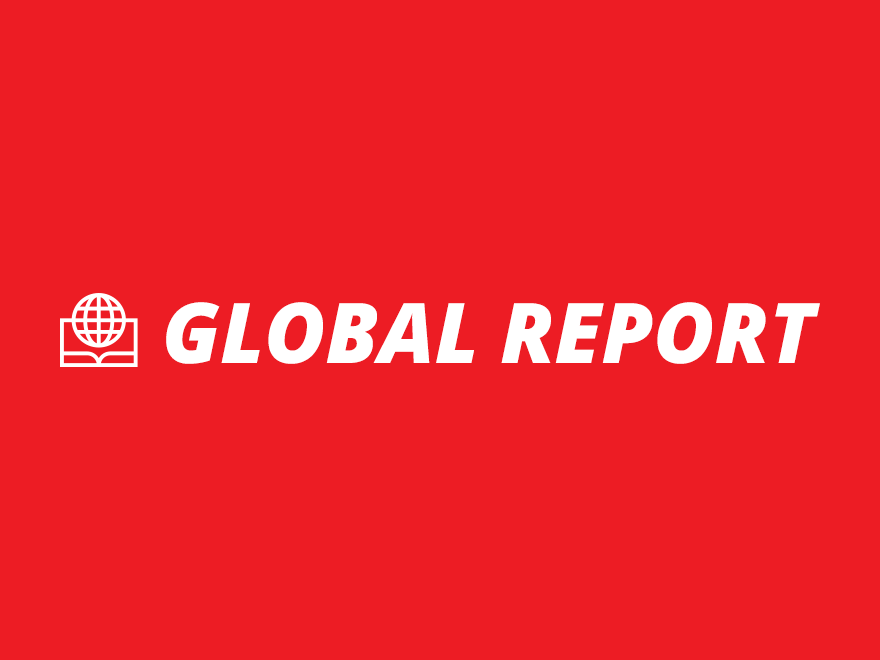
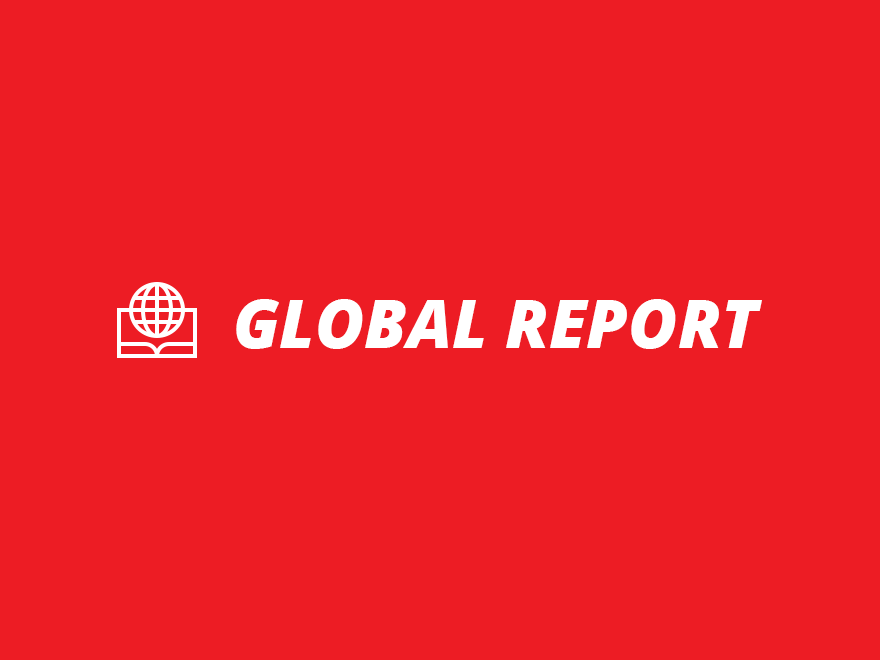
hold your breath. to do list completed.

Changed region(s): [[0.0614, 0.4242, 0.9511, 0.5758]]

diff --git a/style.css b/style.css
@@ -4,4 +4,4 @@ Author: Mitchell Hillman
 Author URI: http://www.mitchellhillman.com/
 Description: A news oriented theme with infinite scroll, excellent readability, and simple navigation.
 Version: 1.0
-*/@import url(icomoon/style.css);@import url(http://fonts.googleapis.com/css?family=Open+Sans:400italic,700italic,800italic,400,700);html,body,div,span,applet,object,iframe,h1,h2,h3,h4,h5,h6,p,blockquote,pre,a,abbr,acronym,address,big,cite,code,del,dfn,em,img,ins,kbd,q,s,samp,small,strike,strong,sub,sup,tt,var,b,u,i,center,dl,dt,dd,ol,ul,li,fieldset,form,label,legend,table,caption,tbody,tfoot,thead,tr,th,td,article,aside,canvas,details,embed,figure,figcaption,footer,header,hgroup,menu,nav,output,ruby,section,summary,time,mark,audio,video{margin:0;padding:0;border:0;font:inherit;font-size:100%;vertical-align:baseline}html{line-height:1}ol,ul{list-style:none}table{border-collapse:collapse;border-spacing:0}caption,th,td{text-align:left;font-weight:normal;vertical-align:middle}q,blockquote{quotes:none}q:before,q:after,blockquote:before,blockquote:after{content:"";content:none}a img{border:none}article,aside,details,figcaption,figure,footer,header,hgroup,menu,nav,section,summary{display:block}.clearfix{*zoom:1}.clearfix:after{content:" ";display:table}.clearfix:after{clear:both}body{font-family:sans-serif;font-size:16px;font-family:"Open Sans",sans-serif;background:white;color:black;line-height:1.5em}img{width:auto;height:auto;max-width:100%;display:block}a{color:#3873ed;text-decoration:none}a:hover{color:black;text-decoration:underline}strong{font-weight:700}em{font-style:italic}h1{font-size:2em;font-weight:700;font-family:"Open Sans",sans-serif;margin:1em 0;line-height:1.2em;padding-bottom:0.25em;border-bottom:1px solid black}h1 a{text-decoration:none;color:black}h1 a:hover{text-decoration:none}h2,h3{text-transform:uppercase;letter-spacing:0.2em;font-family:"Open Sans",sans-serif;font-weight:700;line-height:1.2em;margin:2em 0 0.5em 0}h2 a,h3 a{text-decoration:none}h4,h5,h6{font-weight:bold;font-family:"Open Sans",sans-serif;margin:2em 0 0.5em 0}p{margin:0.75em 0}blockquote{margin:0.75em 0;padding-left:20px;border-left:10px solid #e6e6e6}cite{font-family:"Open Sans",sans-serif;font-size:0.875em;font-style:italic;margin-left:30px}input,textarea{-webkit-appearance:none;-webkit-border-radius:0;-moz-border-radius:0;-ms-border-radius:0;-o-border-radius:0;border-radius:0;border:0;background:white;display:block;font-family:"Open Sans",sans-serif;font-size:16px;outline:none;padding:10px}input[type="text"],textarea[type="text"]{width:100%;color:#4d4d4d}textarea{width:100%;font-size:0.875em}label{font-weight:bold;font-size:0.875em}input[type="submit"]{font-weight:800;font-style:italic;padding:10px 20px;background:#ccc;cursor:pointer;display:inline-block}input[type="submit"]:hover{background:#b3b3b3}abbr,code{font-family:"Lucida Console", "Lucida Sans Typewriter", Monaco, "Bitstream Vera Sans Mono", monospace}code{line-height:1.1em;padding:0.2em;background:white}.screen-reader-text{display:none}.content{color:black;background:white;font-family:"Georgia",serif;padding-top:50px;*zoom:1}.content:after{content:" ";display:table}.content:after{clear:both}.scroller{padding:0}.sidebar{background-color:#e6e6e6}.sidebar{display:none}.main{display:block;background:#f2f2f2}.home .sidebar{display:block}.home .main{display:none}.sidebar-entry{border-top:1px solid white;font-size:0.875em}.sidebar-entry:first-child{border:0}.sidebar-entry a{text-decoration:none}.sidebar-entry p{color:black;margin:0;line-height:1.4em;margin-top:10px}.sidebar-entry h3{margin:0;margin-top:5px}.sidebar-entry:hover,.sidebar-entry.active{background:#ccc}.sidebar-entry img{width:100%;max-width:100%}.sidebar-entry .entry-content{padding:10px}.main-entry,.page-content{max-width:1080px;background:white;margin:0 auto;border-top:1px solid #f2f2f2;padding:40px 0}.main-entry:first-child,.page-content:first-child{border:0}.main-entry .entry-content ul,.main-entry .entry-content ol,.page-content .entry-content ul,.page-content .entry-content ol{margin:0.75em 0 0.75em 40px}.main-entry .entry-content ul li,.page-content .entry-content ul li{list-style-type:disc}.main-entry .entry-content ol li,.page-content .entry-content ol li{list-style-type:decimal}.main-entry .entry-content img,.page-content .entry-content img{margin:20px 0;max-width:100%}.main-entry .entry-content .wp-caption-text,.page-content .entry-content .wp-caption-text{font-family:"Open Sans",sans-serif;font-size:0.875em;color:gray;line-height:1.2em;font-style:italic}.wp-caption{max-width:100%}.alignleft{max-width:100%;float:left;margin:0 20px 20px 0}.alignright{max-width:100%;float:right;margin:0 0 20px 20px}.size-full{width:100%;max-width:100%}.page-content{padding:0 0 40px 0}.column{max-width:600px;margin:0 auto;padding:0 20px}.advertisement{padding:10px 0;text-align:center;*zoom:1;font-family:"Open Sans",sans-serif}.advertisement:after{content:" ";display:table}.advertisement:after{clear:both}.advertisement h2{margin:0}.advertisement img{margin:0 auto}.header{position:fixed;z-index:500;width:100%;color:white;background:black;background:rgba(30,30,30,0.9)}.masthead{background:#ed1c24;position:relative;padding-right:100px;padding-left:10px;*zoom:1}.masthead:after{content:" ";display:table}.masthead:after{clear:both}.masthead img{float:left;margin:10px 0;height:30px;max-width:none;width:auto}.masthead h1{width:100%;white-space:nowrap;overflow:hidden;border:0;margin:0;padding:0;font-size:32px;line-height:50px;font-weight:800;text-transform:uppercase;font-style:italic}.masthead a{display:block;color:white;text-decoration:none}.header-message{font-size:0.875em;padding-left:10px;padding-right:50px;position:relative}.header-message p{margin:0;line-height:50px}.header-message a{color:white;display:block;position:absolute;top:0;right:0;width:50px;height:50px;color:#666}.header-message a:before{display:block;position:absolute;top:50%;left:50%;margin-left:-5px;margin-top:-5px;font-size:9px}.header-message a:hover{color:white}.tool-menu{position:absolute;top:0;right:0}.tool-menu li{float:left}.tool-menu a{display:block;width:50px;height:50px;position:relative}.tool-menu a:hover{background:black;background:rgba(0,0,0,0.3)}.tool-menu a.is-active{background:black}.tool-menu a:before{display:block;position:absolute;top:50%;left:50%;margin-left:-9px;margin-top:-9px;font-size:18px;color:white}.icon-back{display:none}.icon-menu{float:right}.icon-menu.is-active:before{content:'\e602';font-size:16px;margin-top:-8px;margin-left:-8px}.menu{background:black;display:none;font-weight:800;font-style:italic}.menu.is-open{display:block}.menu li{width:100%;border-top:1px solid #1a1a1a}.menu li:first-child{border:0}.menu a{padding:0 10px;display:block;line-height:50px;color:white;text-decoration:none}.menu a:hover{background:#1a1a1a}.menu ul{font-weight:normal;margin-left:10px;border-left:1px solid #1a1a1a;padding-left:10px}.menu ul a{color:#666}.menu ul a:hover{color:white}.searchform-mobile{display:none}.searchform-desktop{display:block;float:right}.icon-search{float:right}.searchform{width:0;-webkit-transition:width 0.5s ease;-moz-transition:width 0.5s ease;-o-transition:width 0.5s ease;transition:width 0.5s ease;float:right;position:static;*zoom:1}.searchform:after{content:" ";display:table}.searchform:after{clear:both}.searchform input[type="text"]{margin:0;width:100%;height:50px;background:black;background:rgba(0,0,0,0.2);color:white;text-indent:0.5em;padding:0}.searchform input[type="submit"]{display:none}.searchform.is-open{-webkit-transition:width 0.5s ease;-moz-transition:width 0.5s ease;-o-transition:width 0.5s ease;transition:width 0.5s ease;width:200px}#wpadminbar{display:none}.post-categories{*zoom:1;line-height:1.2em;font-family:"Open Sans",sans-serif;font-size:0.875em;color:gray;font-weight:700}.post-categories:after{content:" ";display:table}.post-categories:after{clear:both}.post-categories li{float:left;margin-right:10px}.post-title{margin:0.1em 0 0 0}.featured-image{margin:40px 0;background:black;color:white;font-family:"Open Sans",sans-serif;font-size:0.875em;*zoom:1}.featured-image:after{content:" ";display:table}.featured-image:after{clear:both}.featured-image img{display:block;width:100%;max-width:100%}.featured-image-caption{padding:0 20px}.intro{font-weight:bold;font-family:"Open Sans",sans-serif}.meta{margin:20px 0;font-family:"Open Sans",sans-serif;font-size:0.875em;color:gray;position:relative;line-height:1.2em;*zoom:1}.meta:after{content:" ";display:table}.meta:after{clear:both}.meta .author-gravatar{float:left;margin-right:20px;width:60px}.meta .author-gravatar img{width:100%;max-width:100%}.meta .author-description{font-style:italic;margin-bottom:0}.share{margin:0;*zoom:1}.share:after{content:" ";display:table}.share:after{clear:both}.share li{float:left}.share a,.share .icon-share{display:block;text-decoration:none;width:40px;height:40px;line-height:40px;text-align:center}.share a:hover,.share .icon-share:hover{background:#f2f2f2}.share .icon-googleplus{color:#dd4b39}.share .icon-twitter{color:#55acee}.share .icon-facebook{color:#3B5999}.share .icon-share{font-size:19px;background:#f2f2f2;color:gray}.main{position:relative}.spinner{display:none;padding:20px;text-align:center;font-family:"Open Sans",sans-serif;font-weight:800;font-style:italic}.system-message,.nocomments{text-align:center;margin:20px;font-family:"Open Sans",sans-serif;font-weight:800;font-style:italic;color:gray}.load-sidebar{background:#ccc;padding:10px;display:block;margin:10px;text-align:center;font-weight:800;font-style:italic;font-family:"Open Sans",sans-serif;color:black}.load-sidebar:hover{background:#b3b3b3;text-decoration:none}.comments{padding:40px;background:#f2f2f2;font-family:"Open Sans",sans-serif}.comments h3{margin:0 0 20px 0}.comments h3 strong{font-weight:800;font-style:italic}.comments input[type="submit"]{margin-bottom:0}.comments ol ol{padding-left:20px}.comments ol.children{position:relative}.comments ol.children:before,.comments ol.children:after{content:'';display:block;position:absolute;background:gray}.comments ol.children:before{height:1px;width:10px;top:20px;left:10px}.comments ol.children:after{width:1px;height:40px;top:-20px;left:10px}.commentlist{margin:0 0 40px 0}.comment-block{background:white;font-size:0.875em;margin:20px 0;padding:20px}.comment-notes{font-size:0.875em}.comment-awaiting-moderation{color:black;font-weight:bold;font-style:italic}.comment-reply-title a{text-transform:none;font-weight:800;font-style:italic}.comment-reply-title small a{font-size:0.875em;float:right;font-style:normal;letter-spacing:0;font-weight:normal}.form-allowed-tags{color:gray;font-size:0.75em;font-style:italic}.logged-in-as{font-size:0.875em}.logged-in-as,.comment-meta{color:gray}.logged-in-as a,.comment-meta a{color:gray;font-weight:bold}.comment-actions{*zoom:1}.comment-actions:after{content:" ";display:table}.comment-actions:after{clear:both}.comment-actions a{float:left;margin-right:20px}.footer{margin:0;font-family:"Open Sans",sans-serif;font-size:0.875em;font-style:italic;color:gray}@media all and (min-width: 784px){.admin-bar{margin-top:32px}.admin-bar .sidebar{top:82px}.admin-bar .sidebar-scroll{bottom:82px}#wpadminbar{display:block}.scroller{padding-left:280px;position:relative;*zoom:1}.scroller:after{content:" ";display:table}.scroller:after{clear:both}.home .main{display:block}.sidebar{position:fixed;left:0px;top:50px;height:100%;display:-webkit-box;display:-moz-box;display:-ms-box;display:box;-webkit-box-orient:vertical;-moz-box-orient:vertical;-ms-box-orient:vertical;box-orient:vertical;-webkit-box-direction:reverse;-moz-box-direction:reverse;-ms-box-direction:reverse;box-direction:reverse}.sidebar-scroll-wrapper{width:280px;height:100%;display:-webkit-box;display:-moz-box;display:-ms-box;display:box;-webkit-box-orient:vertical;-moz-box-orient:vertical;-ms-box-orient:vertical;box-orient:vertical;-webkit-box-direction:normal;-moz-box-direction:normal;-ms-box-direction:normal;box-direction:normal;-webkit-box-flex:1;-moz-box-flex:1;-ms-box-flex:1;box-flex:1}.sidebar-scroll{bottom:50px;position:absolute;top:0px;width:100%;overflow-y:scroll;-webkit-box-flex:1;-moz-box-flex:1;-ms-box-flex:1;box-flex:1}.sidebar-entry .post-thumbnail{display:none}}@media all and (max-width: 500px){.searchform-mobile{display:block}.searchform-desktop{display:none}.searchform{display:none;width:100%;background:black;background:rgba(0,0,0,0.9);display:none}.searchform.is-open{display:block;width:100%}.advertisement{padding:0}}
+*/@import url(icomoon/style.css);@import url(http://fonts.googleapis.com/css?family=Open+Sans:400italic,700italic,800italic,400,700);html,body,div,span,applet,object,iframe,h1,h2,h3,h4,h5,h6,p,blockquote,pre,a,abbr,acronym,address,big,cite,code,del,dfn,em,img,ins,kbd,q,s,samp,small,strike,strong,sub,sup,tt,var,b,u,i,center,dl,dt,dd,ol,ul,li,fieldset,form,label,legend,table,caption,tbody,tfoot,thead,tr,th,td,article,aside,canvas,details,embed,figure,figcaption,footer,header,hgroup,menu,nav,output,ruby,section,summary,time,mark,audio,video{margin:0;padding:0;border:0;font:inherit;font-size:100%;vertical-align:baseline}html{line-height:1}ol,ul{list-style:none}table{border-collapse:collapse;border-spacing:0}caption,th,td{text-align:left;font-weight:normal;vertical-align:middle}q,blockquote{quotes:none}q:before,q:after,blockquote:before,blockquote:after{content:"";content:none}a img{border:none}article,aside,details,figcaption,figure,footer,header,hgroup,menu,nav,section,summary{display:block}.clearfix{*zoom:1}.clearfix:after{content:" ";display:table}.clearfix:after{clear:both}body{font-family:sans-serif;font-size:16px;font-family:"Open Sans",sans-serif;background:white;color:black;line-height:1.5em}img{width:auto;height:auto;max-width:100%;display:block}a{color:#3873ed;text-decoration:none}a:hover{color:black;text-decoration:underline}strong{font-weight:700}em{font-style:italic}h1{font-size:2em;font-weight:700;font-family:"Open Sans",sans-serif;margin:1em 0;line-height:1.2em;padding-bottom:0.25em;border-bottom:1px solid black}h1 a{text-decoration:none;color:black}h1 a:hover{text-decoration:none}h2,h3{text-transform:uppercase;letter-spacing:0.2em;font-family:"Open Sans",sans-serif;font-weight:700;line-height:1.2em;margin:2em 0 0.5em 0}h2 a,h3 a{text-decoration:none}h4,h5,h6{font-weight:bold;font-family:"Open Sans",sans-serif;margin:2em 0 0.5em 0}p{margin:0.75em 0}blockquote{margin:0.75em 0;padding-left:20px;border-left:10px solid #e6e6e6}cite{font-family:"Open Sans",sans-serif;font-size:0.875em;font-style:italic;margin-left:30px}input,textarea{-webkit-appearance:none;-webkit-border-radius:0;-moz-border-radius:0;-ms-border-radius:0;-o-border-radius:0;border-radius:0;border:0;background:white;display:block;font-family:"Open Sans",sans-serif;font-size:16px;outline:none;padding:10px}input[type="text"],textarea[type="text"]{width:100%;color:#4d4d4d}textarea{width:100%;font-size:0.875em}label{font-weight:bold;font-size:0.875em}input[type="submit"]{font-weight:800;font-style:italic;padding:10px 20px;background:#ccc;cursor:pointer;display:inline-block}input[type="submit"]:hover{background:#b3b3b3}abbr,code{font-family:"Lucida Console", "Lucida Sans Typewriter", Monaco, "Bitstream Vera Sans Mono", monospace}code{line-height:1.1em;padding:0.2em;background:white}.screen-reader-text{display:none}.content{color:black;background:white;font-family:"Georgia",serif;padding-top:50px;*zoom:1}.content:after{content:" ";display:table}.content:after{clear:both}.scroller{padding:0}.sidebar{background-color:#e6e6e6}.sidebar{display:none}.main{display:block;background:#f2f2f2}.home .sidebar{display:block}.home .main{display:none}.sidebar-entry{border-top:1px solid white;font-size:0.875em}.sidebar-entry:first-child{border:0}.sidebar-entry a{text-decoration:none}.sidebar-entry p{color:black;margin:0;line-height:1.4em;margin-top:10px}.sidebar-entry h3{margin:0;margin-top:5px}.sidebar-entry:hover,.sidebar-entry.active{background:#ccc}.sidebar-entry img{width:100%;max-width:100%}.sidebar-entry .entry-content{padding:10px}.main-entry,.page-content{max-width:1080px;background:white;margin:0 auto;border-top:1px solid #f2f2f2;padding:40px 0}.main-entry:first-child,.page-content:first-child{border:0}.main-entry .entry-content ul,.main-entry .entry-content ol,.page-content .entry-content ul,.page-content .entry-content ol{margin:0.75em 0 0.75em 40px}.main-entry .entry-content ul li,.page-content .entry-content ul li{list-style-type:disc}.main-entry .entry-content ol li,.page-content .entry-content ol li{list-style-type:decimal}.main-entry .entry-content img,.page-content .entry-content img{margin:20px 0;max-width:100%}.main-entry .entry-content .wp-caption-text,.page-content .entry-content .wp-caption-text{font-family:"Open Sans",sans-serif;font-size:0.875em;color:gray;line-height:1.2em;font-style:italic}.wp-caption{max-width:100%}.alignleft{max-width:100%;float:left;margin:0 20px 20px 0}.alignright{max-width:100%;float:right;margin:0 0 20px 20px}.size-full{width:100%;max-width:100%}.page-content{padding:0 0 40px 0}.column{max-width:600px;margin:0 auto;padding:0 20px}.advertisement{padding:10px 0;text-align:center;*zoom:1;font-family:"Open Sans",sans-serif}.advertisement:after{content:" ";display:table}.advertisement:after{clear:both}.advertisement h2{margin:0}.advertisement img{margin:0 auto}.header{position:fixed;z-index:500;width:100%;color:white;background:black;background:rgba(30,30,30,0.9)}.masthead{background:#ed1c24;position:relative;padding-right:100px;padding-left:10px;*zoom:1}.masthead:after{content:" ";display:table}.masthead:after{clear:both}.masthead img{float:left;margin:5px 0;height:40px;max-width:none;width:auto}.masthead h1{width:100%;white-space:nowrap;overflow:hidden;border:0;margin:0;padding:0;font-size:32px;line-height:50px;font-weight:800;text-transform:uppercase;font-style:italic}.masthead a{display:block;color:white;text-decoration:none}.masthead .logo-small{display:none}.header-message{font-size:0.875em;padding-left:10px;padding-right:50px;position:relative}.header-message p{margin:0;line-height:50px}.header-message a{color:white;display:block;position:absolute;top:0;right:0;width:50px;height:50px;color:#666}.header-message a:before{display:block;position:absolute;top:50%;left:50%;margin-left:-5px;margin-top:-5px;font-size:9px}.header-message a:hover{color:white}.tool-menu{position:absolute;top:0;right:0}.tool-menu li{float:left}.tool-menu a{display:block;width:50px;height:50px;position:relative}.tool-menu a:hover{background:black;background:rgba(0,0,0,0.3)}.tool-menu a.is-active{background:black}.tool-menu a:before{display:block;position:absolute;top:50%;left:50%;margin-left:-9px;margin-top:-9px;font-size:18px;color:white}.icon-back{display:none}.icon-menu{float:right}.icon-menu.is-active:before{content:'\e602';font-size:16px;margin-top:-8px;margin-left:-8px}.menu{background:black;display:none;font-weight:800;font-style:italic}.menu.is-open{display:block}.menu li{width:100%;border-top:1px solid #1a1a1a}.menu li:first-child{border:0}.menu a{padding:0 10px;display:block;line-height:50px;color:white;text-decoration:none}.menu a:hover{background:#1a1a1a}.menu ul{font-weight:normal;margin-left:10px;border-left:1px solid #1a1a1a;padding-left:10px}.menu ul a{color:#666}.menu ul a:hover{color:white}.searchform-mobile{display:none}.searchform-desktop{display:block;float:right}.icon-search{float:right}.searchform{width:0;-webkit-transition:width 0.5s ease;-moz-transition:width 0.5s ease;-o-transition:width 0.5s ease;transition:width 0.5s ease;float:right;position:static;*zoom:1}.searchform:after{content:" ";display:table}.searchform:after{clear:both}.searchform input[type="text"]{margin:0;width:100%;height:50px;background:black;background:rgba(0,0,0,0.2);color:white;text-indent:0.5em;padding:0}.searchform input[type="submit"]{display:none}.searchform.is-open{-webkit-transition:width 0.5s ease;-moz-transition:width 0.5s ease;-o-transition:width 0.5s ease;transition:width 0.5s ease;width:200px}#wpadminbar{display:none}.post-categories{*zoom:1;line-height:1.2em;font-family:"Open Sans",sans-serif;font-size:0.875em;color:gray;font-weight:700}.post-categories:after{content:" ";display:table}.post-categories:after{clear:both}.post-categories li{float:left;margin-right:10px}.post-title{margin:0.1em 0 0 0}.featured-image{margin:40px 0;background:black;color:white;font-family:"Open Sans",sans-serif;font-size:0.875em;*zoom:1}.featured-image:after{content:" ";display:table}.featured-image:after{clear:both}.featured-image img{display:block;width:100%;max-width:100%}.featured-image-caption{padding:0 20px}.intro{font-weight:bold;font-family:"Open Sans",sans-serif}.meta{margin:20px 0;font-family:"Open Sans",sans-serif;font-size:0.875em;color:gray;position:relative;line-height:1.2em;*zoom:1}.meta:after{content:" ";display:table}.meta:after{clear:both}.meta .author-gravatar{float:left;margin-right:20px;width:60px}.meta .author-gravatar img{width:100%;max-width:100%}.meta .author-description{font-style:italic;margin-bottom:0}.share{margin:0;*zoom:1}.share:after{content:" ";display:table}.share:after{clear:both}.share li{float:left}.share a,.share .icon-share{display:block;text-decoration:none;width:40px;height:40px;line-height:40px;text-align:center}.share a:hover,.share .icon-share:hover{background:#f2f2f2}.share .icon-googleplus{color:#dd4b39}.share .icon-twitter{color:#55acee}.share .icon-facebook{color:#3B5999}.share .icon-share{font-size:19px;background:#f2f2f2;color:gray}.main{position:relative}.spinner{display:none;padding:20px;text-align:center;font-family:"Open Sans",sans-serif;font-weight:800;font-style:italic}.system-message,.nocomments{text-align:center;margin:20px;font-family:"Open Sans",sans-serif;font-weight:800;font-style:italic;color:gray}.load-sidebar{background:#ccc;padding:10px;display:block;margin:10px;text-align:center;font-weight:800;font-style:italic;font-family:"Open Sans",sans-serif;color:black}.load-sidebar:hover{background:#b3b3b3;text-decoration:none}.comments{padding:40px;background:#f2f2f2;font-family:"Open Sans",sans-serif}.comments h3{margin:0 0 20px 0}.comments h3 strong{font-weight:800;font-style:italic}.comments input[type="submit"]{margin-bottom:0}.comments ol ol{padding-left:20px}.comments ol.children{position:relative}.comments ol.children:before,.comments ol.children:after{content:'';display:block;position:absolute;background:gray}.comments ol.children:before{height:1px;width:10px;top:20px;left:10px}.comments ol.children:after{width:1px;height:40px;top:-20px;left:10px}.commentlist{margin:0 0 40px 0}.comment-block{background:white;font-size:0.875em;margin:20px 0;padding:20px}.comment-notes{font-size:0.875em}.comment-awaiting-moderation{color:black;font-weight:bold;font-style:italic}.comment-reply-title a{text-transform:none;font-weight:800;font-style:italic}.comment-reply-title small a{font-size:0.875em;float:right;font-style:normal;letter-spacing:0;font-weight:normal}.form-allowed-tags{color:gray;font-size:0.75em;font-style:italic}.logged-in-as{font-size:0.875em}.logged-in-as,.comment-meta{color:gray}.logged-in-as a,.comment-meta a{color:gray;font-weight:bold}.comment-actions{*zoom:1}.comment-actions:after{content:" ";display:table}.comment-actions:after{clear:both}.comment-actions a{float:left;margin-right:20px}.footer{margin:0;font-family:"Open Sans",sans-serif;font-size:0.875em;font-style:italic;color:gray}@media all and (min-width: 784px){.admin-bar{margin-top:32px}.admin-bar .sidebar{top:82px}.admin-bar .sidebar-scroll{bottom:82px}#wpadminbar{display:block}.scroller{padding-left:280px;position:relative;*zoom:1}.scroller:after{content:" ";display:table}.scroller:after{clear:both}.home .main{display:block}.sidebar{position:fixed;left:0px;top:50px;height:100%;display:-webkit-box;display:-moz-box;display:-ms-box;display:box;-webkit-box-orient:vertical;-moz-box-orient:vertical;-ms-box-orient:vertical;box-orient:vertical;-webkit-box-direction:reverse;-moz-box-direction:reverse;-ms-box-direction:reverse;box-direction:reverse}.sidebar-scroll-wrapper{width:280px;height:100%;display:-webkit-box;display:-moz-box;display:-ms-box;display:box;-webkit-box-orient:vertical;-moz-box-orient:vertical;-ms-box-orient:vertical;box-orient:vertical;-webkit-box-direction:normal;-moz-box-direction:normal;-ms-box-direction:normal;box-direction:normal;-webkit-box-flex:1;-moz-box-flex:1;-ms-box-flex:1;box-flex:1}.sidebar-scroll{bottom:50px;position:absolute;top:0px;width:100%;overflow-y:scroll;-webkit-box-flex:1;-moz-box-flex:1;-ms-box-flex:1;box-flex:1}.sidebar-entry .post-thumbnail{display:none}}@media all and (max-width: 500px){.masthead .logo-small{display:block}.masthead .logo-fullsize{display:none}.searchform-mobile{display:block}.searchform-desktop{display:none}.searchform{display:none;width:100%;background:black;background:rgba(0,0,0,0.9);display:none}.searchform.is-open{display:block;width:100%}.advertisement{padding:0}.column{padding:0 10px}.main-entry{padding:30px 0}}

diff --git a/sass/_main.scss b/sass/_main.scss
@@ -307,9 +307,8 @@
 		}
 		img {
 			float: left;
-			margin: (($header_height - 30px) / 2) 0;
-			// height: $header_height - 10px;
-			height: 30px;
+			margin: (($header_height - 40px) / 2) 0;
+			height: 40px;
 			max-width: none;
 			width: auto;
 		}
@@ -332,6 +331,9 @@
 			display: block;
 			color: white;
 			text-decoration: none;
+		}
+		.logo-small {
+			display: none;
 		}
 	}
 	.header-message {
@@ -367,6 +369,7 @@
 
 		}
 	}
+	
 
 	// Tool Menu
 	.tool-menu {

diff --git a/sass/_responsive.scss b/sass/_responsive.scss
@@ -68,6 +68,14 @@
 
 // Mobile
 @media all and (max-width: 500px) {
+	.masthead {
+		.logo-small {
+			display: block;
+		}
+		.logo-fullsize {
+			display: none;
+		}
+	}
 	.searchform-mobile {
 		display: block;
 	}
@@ -87,5 +95,11 @@
 	}
 	.advertisement {
 		padding: 0;
+	}
+	.column {
+		padding: 0 10px;
+	}
+	.main-entry {
+		padding: 30px 0;
 	}
 }

diff --git a/header.php b/header.php
@@ -16,8 +16,8 @@
 		<title><?php wp_title('|', true, 'right'); ?></title></title>
 
 		<link rel="stylesheet" type="text/css" href="<?php bloginfo('stylesheet_url'); ?>" media="screen">
-		<link rel="icon" type="image/x-icon" href="favicon.ico" />
-		<link rel="apple-touch-icon-precomposed" href="icon.png" />
+		<link rel="icon" type="image/x-icon" href="<?php bloginfo('template_directory'); ?>/favicon.ico" />
+		<link rel="apple-touch-icon-precomposed" href="<?php echo get_theme_mod('bookmark_icon'); ?>" />
 		<link rel="pingback" href="<?php bloginfo( 'pingback_url' ); ?>">
 
 		<!--[if lt IE 9]>
@@ -44,8 +44,11 @@
 		
 		<div class="header">
 			<div class="masthead <?php if (is_archive()): ?>archive<?php endif; ?>">
-				<?php if (get_header_image() != ''): ?>
-					<a href="<?php echo esc_url( home_url( '/' ) ); ?>" rel="home"><img src="<?php header_image(); ?>" alt="<?php bloginfo( $name ); ?>" /></a>
+				<?php if (get_header_image() != '' && get_theme_mod('small_logo') != ''): ?>
+					<a href="<?php echo esc_url( home_url( '/' ) ); ?>" rel="home" class="logo-fullsize"><img src="<?php header_image(); ?>" alt="<?php bloginfo( $name ); ?>" /></a>
+					<a href="<?php echo esc_url( home_url( '/' ) ); ?>" rel="home" class="logo-small"><img src="<?php echo get_theme_mod('small_logo'); ?>" alt="<?php bloginfo( $name ); ?>" /></a>
+				<?php elseif (get_header_image() != ''): ?>
+					<a href="<php echo esc_url( home_url( '/' ) ); ?>" rel="home"><img src="<?php header_image(); ?>" alt="<?php bloginfo( $name ); ?>" /></a>
 				<?php else: ?>
 					<h1><a href="<?php echo esc_url( home_url( '/' ) ); ?>" rel="home"><?php bloginfo( $name ); ?></a></h1>
 				<?php endif ?>

diff --git a/functions.php b/functions.php
@@ -60,6 +60,28 @@
 // =====================================================
 
 	function globalreport_customize_register( $wp_customize ) {
+
+		// Bookmark Icon (used in iOS)
+		$wp_customize->add_setting( 'bookmark_icon' , array(
+			'transport'   => 'refresh',
+		) );
+		$wp_customize->add_control( new WP_Customize_Image_Control( $wp_customize, 'bookmark_icon', array(
+			'label'        => __( 'Bookmark Icon', 'bookmark_icon' ),
+			'section'    => 'title_tagline',
+			'settings'   => 'bookmark_icon',
+		) ) );
+
+
+		// Small Logo
+		$wp_customize->add_setting( 'small_logo' , array(
+			'transport'   => 'refresh',
+		) );
+		$wp_customize->add_control( new WP_Customize_Image_Control( $wp_customize, 'small_logo', array(
+			'label'        => __( 'Small Logo', 'small_logo' ),
+			'section'    => 'header_image',
+			'settings'   => 'small_logo',
+		) ) );
+
 		// Header Color
 		$wp_customize->add_setting( 'header_color' , array(
 			'default'     => '#ed1c24',

diff --git a/page.php b/page.php
@@ -22,12 +22,10 @@ while ( have_posts() ) : the_post(); ?>
 		<div class="column">
 		<?php endif; ?>
 			<?php the_content(); ?>
-
-			<?php comments_template( '', true ); ?>
-
 		</div><!-- /.column -->
-
 	</div><!-- /.page-content -->
+
+	<?php comments_template( '', true ); ?>
 
 <?php 
 // End the Loop.

diff --git a/README.md b/README.md
@@ -12,11 +12,6 @@ Global Report is a web app Wordpress theme for Magazines and Blogs. It is inspir
 _This theme has very specific set of features and challenges and as such may not support 'typical' plugins. This theme does not suport commenting on posts._
 
 ## To Do:
-- i18n
-- Commenting on pages
-- User customizable bookmark icon
-- Create demo content
-- Clean up logos and screenshots
 - Post to theme forest
 - Make theme forest demo
 
